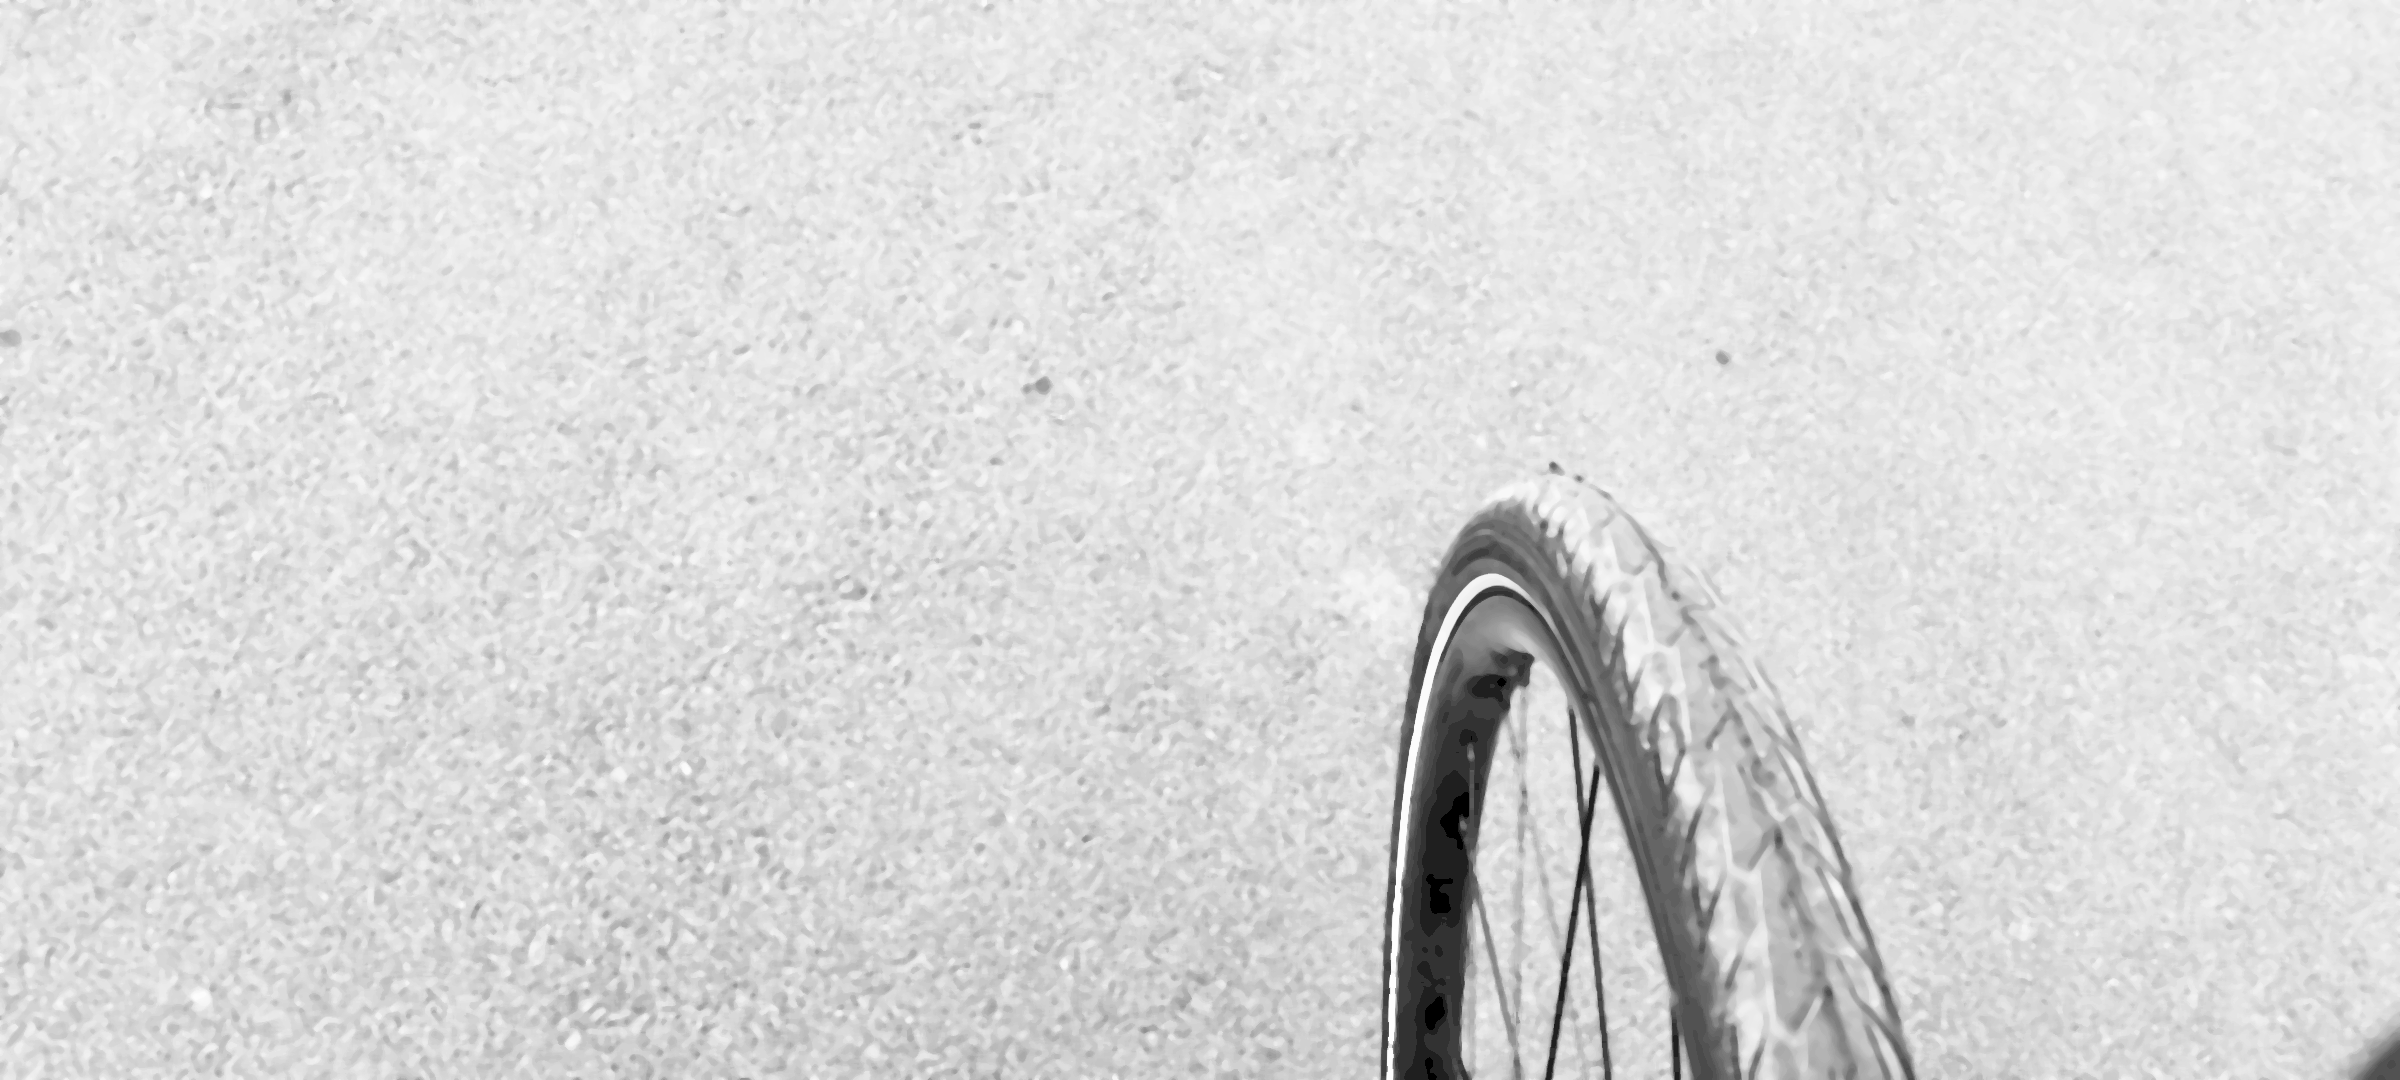
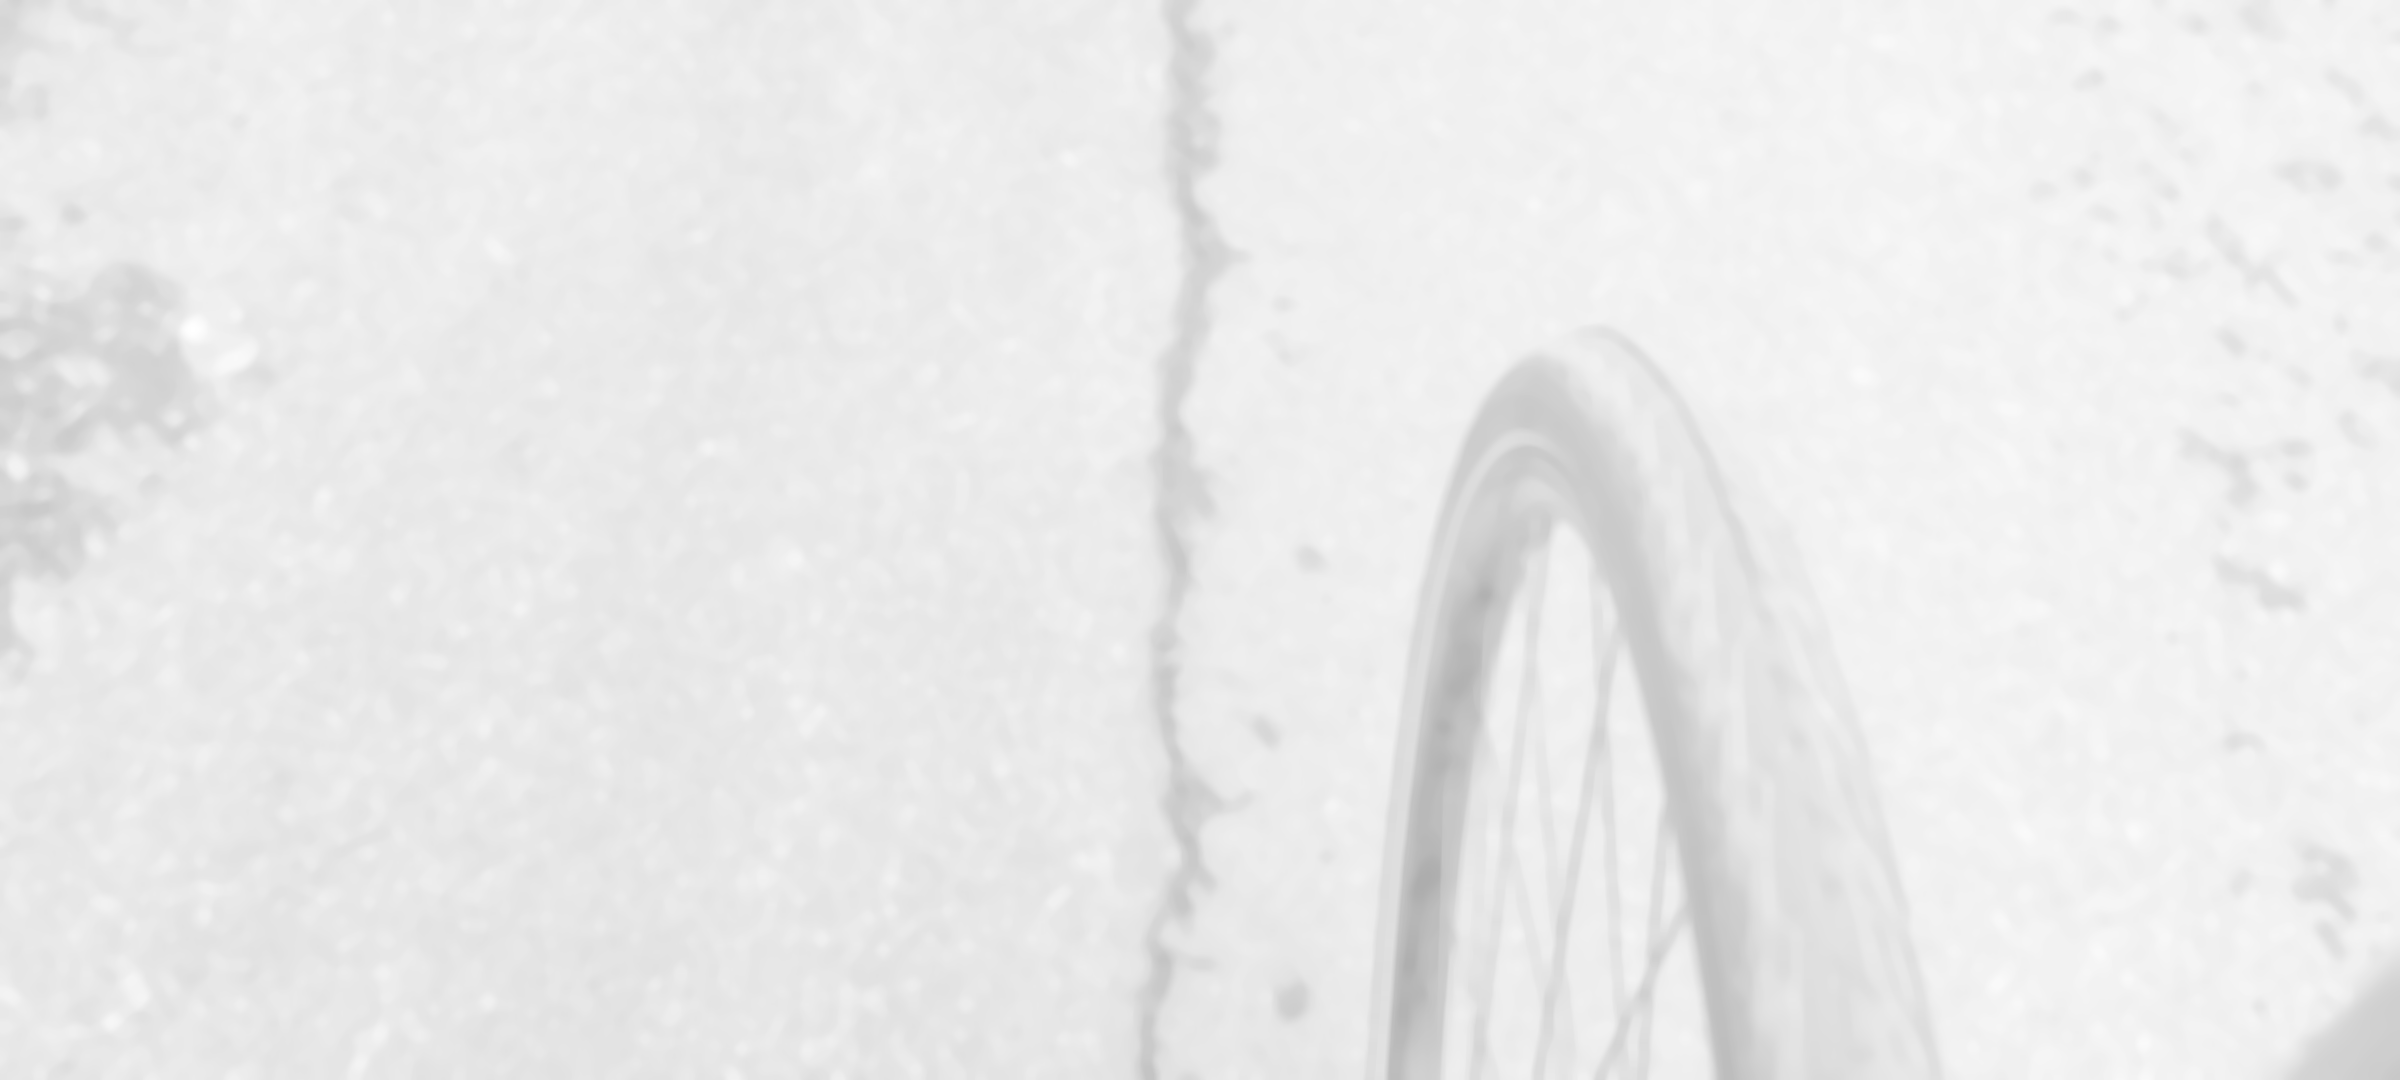
test

diff --git a/test.py b/test.py
@@ -5,30 +5,27 @@ import matplotlib.pyplot as plt
 import pickle
 IMGS = pickle.load(open("imagess.p", "rb"))
 
-img = IMGS[0]
+img = IMGS[300]
 downscale = 1
 imggray = cv2.cvtColor(img, cv2.COLOR_BGR2GRAY)
 #imggray = cv2.pyrDown(imggray)
 #imggray = cv2.pyrDown(imggray)
 
-imgblur = cv2.GaussianBlur(imggray, (7,7), 40)
-imgblur = cv2.medianBlur(imgblur,   7)
-imgblur = cv2.medianBlur(imgblur,   7)
-imgblur = cv2.medianBlur(imgblur,   7)
-imgblur = cv2.medianBlur(imgblur,   7)
+imgblur = cv2.GaussianBlur(imggray, (13,13), 40)
+imgblur = cv2.medianBlur(imgblur,   15)
 
-imgblur = cv2.equalizeHist(imggray)
+
+#imgblur = cv2.equalizeHist(imggray)
 c = 255 / np.log(1 + np.max(imgblur))
 log_image = c * (np.log(imgblur + 1))
 
 # Specify the data type so that
 # float value will be converted to int
 log_image = np.array(log_image, dtype=np.uint8)
-log_image = cv2.medianBlur(log_image,   7)
-log_image = cv2.medianBlur(log_image,   7)
+
 bilateral = cv2.bilateralFilter(log_image, 50, 1, 1)
 hist = cv2.calcHist([bilateral],[0],None,[256],[0,256])
-t, th3 = cv2.threshold(bilateral, bilateral.max()*0.6, 255, cv2.THRESH_BINARY_INV)
+th3 = cv2.adaptiveThreshold(bilateral, 255, cv2.ADAPTIVE_THRESH_GAUSSIAN_C, cv2.THRESH_BINARY_INV,11,1)
 th3 = cv2.medianBlur(th3,   7)
 
 print(len(IMGS))
